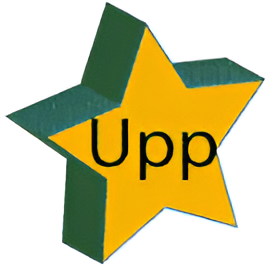
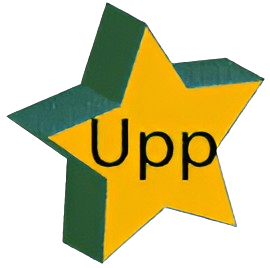
commit

diff --git a/gymnasiearbete/style.css b/gymnasiearbete/style.css
@@ -546,7 +546,7 @@ header h3 {
   display: block; /* Säkerställer att alla objekt får sin egen rad */
   text-decoration: none; /* Ta bort understrykning på länkar */
   border-radius: 10px;
-  box-shadow: 4px 0px 7px rgb(73, 71, 71);
+  box-shadow: 4px 0px 7px rgb(175, 171, 171);
 }
 
 /* Hover effect for dropdown items */
@@ -651,23 +651,17 @@ textarea {
   display: none; /* Börjar gömd */
   z-index: 100; /* Överst i lager */
   cursor: pointer;
-  background-color: #ddd;
+}
+
+#upp-knapp img {
+  width: 100px; /* Anpassa storleken */
+  height: 100px;
   border-radius: 50%; /* Gör knappen rund */
   box-shadow: 0 4px 6px rgba(0, 0, 0, 0.1);
   transition: transform 0.3s;
-  padding: 30px;
-  font-weight: bolder;
-  text-decoration: none;
 }
 
-#upp-knapp text {
- 
- 
-  font-weight: bolder;
-  
-}
-
-#upp-knapp:hover {
+#upp-knapp img:hover {
   transform: scale(1.1); /* Förstorad vid hover */
 }
 
@@ -904,12 +898,4 @@ tr {
 #dbres tr:first-child {
 	background-color: rgb(87, 65, 255);
 }
-#stats {
-  position:absolute;
-  margin-top:10%;
-  margin-left:70%;
-  width:fit-content;
-}
-.back{
-  display:flex;
-}
+

diff --git a/gymnasiearbete/minesweeper/index.php b/gymnasiearbete/minesweeper/index.php
@@ -2,7 +2,6 @@
 
 session_start();
 require_once '../dbhs.php';
-require_once '../assets/functions.php';
 if (!isset($_SESSION['grid'])) {
     resetGame();
 }
@@ -63,7 +62,6 @@ if (isset($_GET['reset'])) {
     header("Location: index.php");
     exit();
 }
-$stats = getUserPoints();
 $username = $_SESSION['username'];
 ?>
 <!DOCTYPE html>
@@ -110,13 +108,14 @@ $username = $_SESSION['username'];
 
         
     </header>
-    <div class="back">
+    <?php echo $_SESSION['points'];?>
 <div class="background">
 <div id="status">Game in progress...</div>
     <div id="game-board"></div>
     <button id="reset-button">Reset</button>
 </div>
 
+    
     <script src="script.js"></script>
     <script src="../java.js"></script>
     <script>
@@ -125,19 +124,5 @@ $username = $_SESSION['username'];
         const flags = <?= json_encode($_SESSION['flags']) ?>;
         const gameState = '<?= $_SESSION['game_state'] ?>';
     </script>
-
-<table id="stats">
-    <tr>
-        <th>Poäng</th>
-        <th>Vinster</th>
-        <th>Förluster</th>
-    </tr>
-    <tr>
-        <td><?php echo htmlspecialchars($stats['points'] * 100); ?></td>
-        <td><?php echo htmlspecialchars($stats['wins']); ?></td>
-        <td><?php echo htmlspecialchars($stats['lose']); ?></td>
-    </tr>
-</table>
-    </div>
 </body>
 </html>

diff --git a/gymnasiearbete/index.php b/gymnasiearbete/index.php
@@ -27,8 +27,7 @@ require_once 'assets/uppgifter.php';
             <!-- Dropdown-menyn som visas vid klick -->
             <div class="dropdown-menu">
             <a href="#regler" class="dropdown-item">Regler</a>
-            <a href="#info" class="dropdown-item">Information</a>
-            
+            <a href="#info" class="dropdown-item">Info</a>
                
 
             </div>
@@ -78,7 +77,9 @@ require_once 'assets/uppgifter.php';
 </div>
 
 <!-- Upp-knappen (Bild) -->
-<a href="#topp" id="upp-knapp">UPP</a>
+<a href="#topp" id="upp-knapp">
+    <img src="image/upp.png" alt="Upp-knapp" />
+</a>
 
 
     
